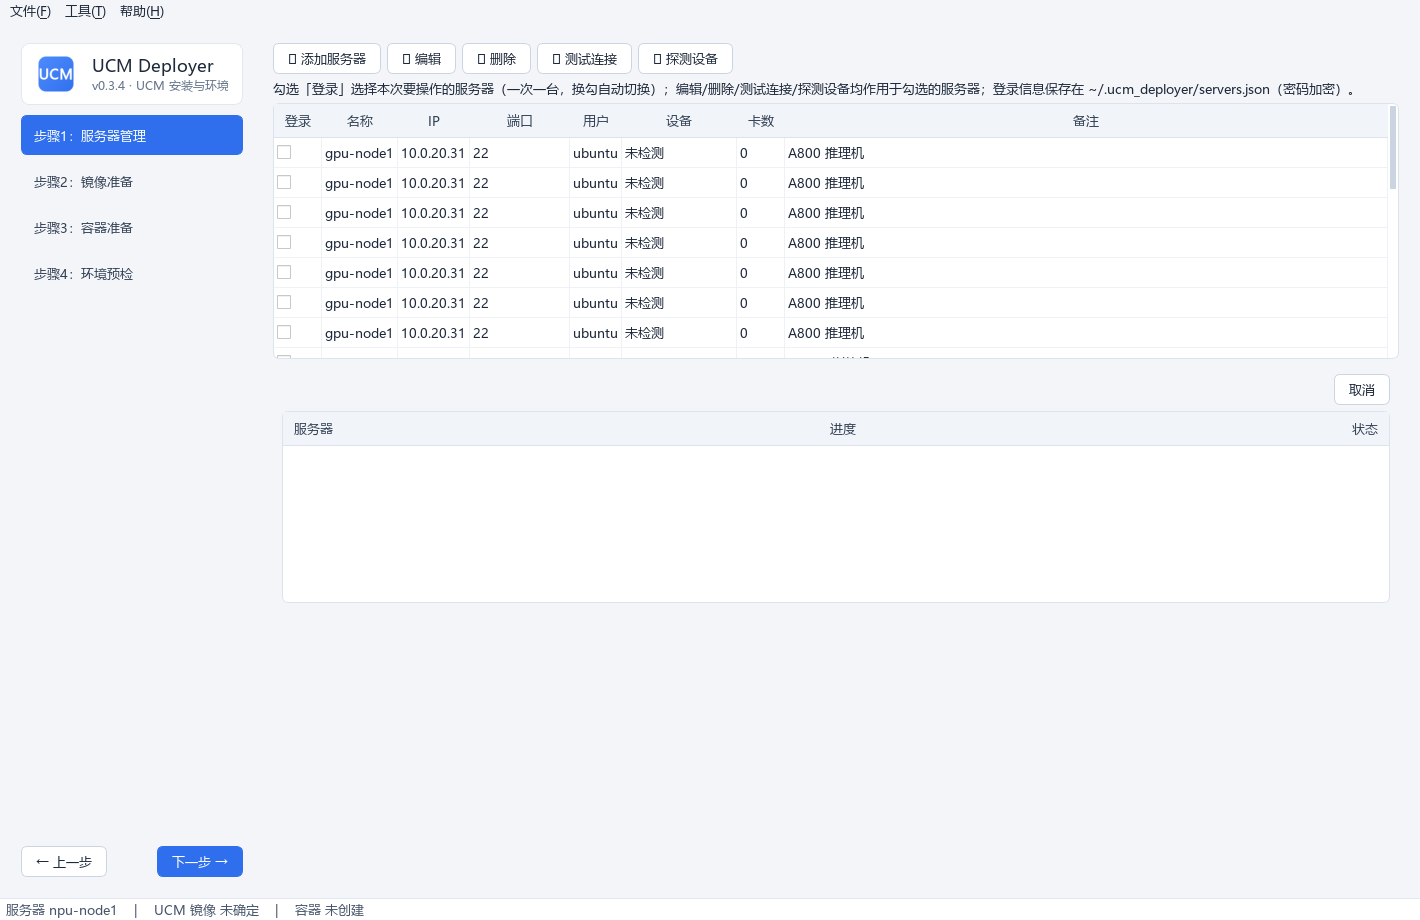
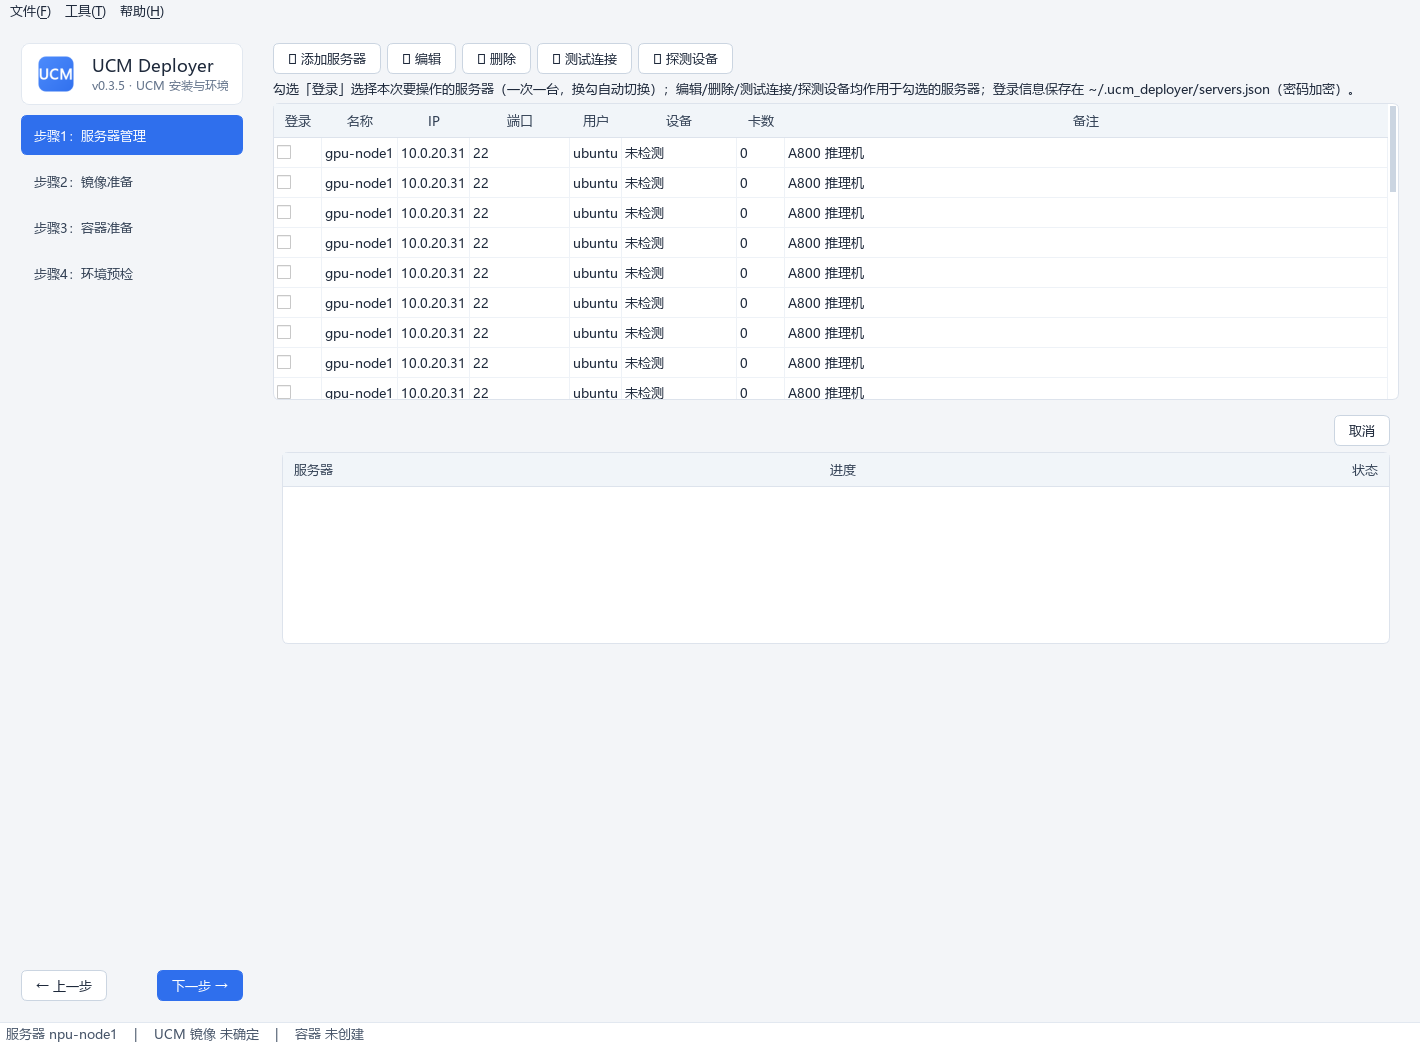
docs(release): prepare v0.3.5

diff --git a/docs/index.html b/docs/index.html
@@ -276,7 +276,7 @@ footer {
     <a class="btn btn-primary" href="#quickstart">快速开始</a>
     <a class="btn btn-outline" href="https://github.com/student-jhz/UCM-Deployer/releases/latest/download/UCM-Deployer.exe">下载 EXE</a>
   </div>
-  <p class="meta">当前版本 v0.3.4 · 支持 Ascend NPU · NVIDIA GPU · Linux 服务器 · Docker</p>
+  <p class="meta">当前版本 v0.3.5 · 支持 Ascend NPU · NVIDIA GPU · Linux 服务器 · Docker</p>
 </header>
 
 <div class="container">
@@ -292,7 +292,7 @@ footer {
   <div class="cards">
     <div class="card"><h3>凭据复用</h3><p>密码或私钥登录，密码 Fernet 加密保存在本机，下次打开自动复用。</p></div>
     <div class="card"><h3>设备感知</h3><p>自动识别 Ascend / NVIDIA 型号、卡数与 CPU 架构，并按宿主机实际资源生成容器参数。</p></div>
-    <div class="card"><h3>镜像导入</h3><p>支持本地 tar 包上传，也支持输入镜像仓库地址，按目标架构拉取后自动导入服务器。</p></div>
+    <div class="card"><h3>镜像准备</h3><p>单一来源选择器：复用服务器镜像、离线导入 tar 包，或由目标服务器直连仓库拉取；本地无需 Docker Desktop。</p></div>
     <div class="card"><h3>按需构建</h3><p>仅在基础镜像未安装 UCM 时上传 wrapt、UCM、ucm-toolkit whl 并构建新镜像。</p></div>
     <div class="card"><h3>命令透明</h3><p>所有 Docker 命令先完整展示，允许编辑，再执行，避免黑盒操作。</p></div>
     <div class="card"><h3>环境预检</h3><p>显式选择容器，检查驱动、内核、共享内存、AIO 与存储带宽；UCM 与驱动版本支持多来源补齐。</p></div>
@@ -321,7 +321,7 @@ python -m venv .venv
   <div class="callout">
     <b>目标服务器要求</b>
     Linux + SSH + Docker；Ascend 服务器需宿主机可用 <code>npu-smi</code>；NVIDIA 服务器需 <code>nvidia-smi</code> 与 nvidia-container-runtime。
-    使用镜像仓库拉取时，本地还需安装并启动 Docker Desktop。
+    使用镜像仓库拉取时，目标服务器需能访问对应仓库；本地无需 Docker Desktop。
   </div>
   <h3>按需准备安装包</h3>
   <table>
@@ -373,12 +373,16 @@ python -m venv .venv
   <p>优先复用已安装 UCM 的镜像；仅在确需制作新镜像时，才把 wrapt、UCM 与可选的 ucm-toolkit 安装进基础镜像。</p>
   <figure class="figure">
     <img src="screenshots/step2-build.png" alt="镜像准备界面" loading="lazy">
-    <figcaption>镜像准备页：仓库地址拉取、基础镜像选择、按需构建与匹配校验</figcaption>
+    <figcaption>镜像准备页：镜像来源选择、基础镜像复用、按需构建与匹配校验</figcaption>
+  </figure>
+  <figure class="figure">
+    <img src="screenshots/step2-registry-pull.png" alt="服务器直连拉取镜像界面" loading="lazy">
+    <figcaption>仓库模式：目标服务器执行 docker pull，命令可编辑，本地无需 Docker Desktop</figcaption>
   </figure>
   <h3>操作流程</h3>
   <ol>
-    <li>导入镜像：可上传本地 tar / tar.gz，也可输入 <code>quay.io/ascend/vllm-ascend:v0.30.0rc2-a5-openeuler</code> 这类仓库地址。</li>
-    <li>自动匹配架构：本地 Docker 按目标服务器 CPU 架构执行 <code>docker pull --platform</code>，导出 <code>tar.gz</code> 后自动上传并 <code>docker load</code>。</li>
+    <li>选择镜像来源：默认复用「服务器已有镜像」，无需填写仓库地址；离线场景选择 tar / tar.gz 导入；在线场景输入仓库地址。</li>
+    <li>服务器直连拉取：目标服务器按 CPU 架构生成可编辑的 <code>docker pull --platform</code> 命令，本地无需 Docker Desktop，也不生成或上传 <code>tar.gz</code>。</li>
     <li>检查 UCM：点击「✅ 检查所选镜像 UCM」。已安装则记录该镜像并直接进入步骤 3，无需构建。</li>
     <li>按需构建：仅在基础镜像未安装 UCM 时选择 wrapt、UCM 与 ucm-toolkit whl。</li>
     <li>确认新镜像名：默认生成 <code>&lt;基础镜像名&gt;:ucm-&lt;UCM版本&gt;</code>，也可手动修改。</li>
@@ -394,8 +398,8 @@ python -m venv .venv
     </tbody>
   </table>
   <div class="callout">
-    <b>本地 Docker 前置条件</b>
-    使用镜像仓库拉取时，本机需安装并启动 Docker Desktop。工具会按目标服务器 <code>aarch64</code> / <code>x86_64</code> 选择对应平台，避免把错误架构镜像导入服务器。
+    <b>服务器拉取前置条件</b>
+    使用镜像仓库模式时，目标服务器需已安装 Docker 并能访问仓库。工具会按目标服务器 <code>aarch64</code> / <code>x86_64</code> 选择对应平台，避免拉取错误架构镜像。
   </div>
 </section>
 

diff --git a/scripts/take_screenshots.py b/scripts/take_screenshots.py
@@ -37,8 +37,11 @@ def ensure_cjk_font(app):
         families = QFontDatabase.applicationFontFamilies(font_id)
         if families:
             app.setFont(QFont(families[0], 10))
+            print(f"CJK font: {families[0]}")
             return True
-    return False
+    raise RuntimeError(
+        "未找到可用中文字体（msyh.ttc / simhei.ttf / NotoSansCJK），"
+        "拒绝生成小方框截图；请先安装中文字体后重试")
 
 
 def main() -> int:
@@ -139,6 +142,7 @@ def main() -> int:
                     "2026-08-01 10:00:00"),
     ]
     ip.placeholder.setVisible(False)
+    ip.source_combo.setCurrentIndex(0)
     ip._apply_images()
     ip._update_platform_label()
     ip.registry_ref_edit.setText(
@@ -153,6 +157,12 @@ def main() -> int:
                            " 与镜像/安装包匹配")
     goto(1)
     shot(win, "step2-build")
+    ip.source_combo.setCurrentIndex(2)
+    ip._update_pull_command()
+    goto(1)
+    shot(win, "step2-registry-pull")
+    ip.source_combo.setCurrentIndex(0)
+    goto(1)
 
     # ============================================================ 步骤3
     cp = win.container_page

diff --git a/ucm_deployer/version.py b/ucm_deployer/version.py
@@ -1,4 +1,4 @@
 # -*- coding: utf-8 -*-
 """应用名称与版本号。"""
 APP_NAME = "UCM Deployer"
-__version__ = "0.3.4"
+__version__ = "0.3.5"

diff --git a/README.md b/README.md
@@ -11,7 +11,7 @@
 ```
 
 - **步骤1 服务器管理**：SSH 登录信息本地加密保存/复用；单选登录一台服务器；`npu-smi`/`nvidia-smi` 设备探测（型号/卡数/CPU 架构）
-- **步骤2 镜像准备**：选服务器已有镜像（**关键字筛选**）、上传 tar 包 `docker load`，或输入镜像仓库地址（如 `quay.io/ascend/vllm-ascend:v0.30.0rc2-a5-openeuler`）由本地 Docker **按目标服务器架构拉取**、导出 `tar.gz` 并自动上传加载；已含 UCM 的镜像可直接复用并跳过构建；确需构建时上传 wrapt/UCM/ucm-toolkit whl，构建前自动校验设备平台与架构
+- **步骤2 镜像准备**：通过单一“镜像来源”选择器复用服务器已有镜像、离线导入本地 tar 包，或输入镜像仓库地址（如 `quay.io/ascend/vllm-ascend:v0.30.0rc2-a5-openeuler`）由**目标服务器**直接 `docker pull`（本地无需 Docker Desktop）；已含 UCM 的镜像可直接复用并跳过构建；确需构建时上传 wrapt/UCM/ucm-toolkit whl，构建前自动校验设备平台与架构
 - **步骤3 容器准备**：选 UCM 镜像（**选择时自动校验**镜像内 UCM）；自动探测宿主机实际存在的 Ascend 设备节点与驱动/工具挂载，兼容 Ascend 950PR/A5（缺失 `/dev/devmm_svm` 时不再生成该参数，存在 `/dev/ummu` 或 `/dev/uburma` 时自动添加 `--privileged=true`）；GPU 使用 `--runtime nvidia --gpus all -p 8000:8000`；KV Cache / 模型只读 / 自定义挂载；docker run 命令**可编辑**后执行；已有 UCM 容器可跳过创建
 - **步骤4 环境预检**：**显式选择目标容器**（刷新 `docker ps -a` 后选择已有容器或输入容器名）；在所选容器内运行 `ucm-toolkit run precheck`（驱动/内核/共享内存/AIO 检查 + **可选挂载目录带宽测试**）；当 toolkit 无法识别 UCM 平台变体或 Ascend 驱动版本时，自动用 pip 元数据、`version.info`、`npu-smi`、`nvidia-smi` 多来源补齐并标注来源；**预检参数可配置**；结果**表格+详情区展示**（PASS/WARN/FAIL/INFO 着色、中文名与排查建议）
 - **工具菜单**：清理指定容器（`docker ps -a` 勾选删除）/ 清理指定镜像（`docker images` 勾选删除），作用于当前登录的服务器
@@ -58,7 +58,7 @@ git tag v0.2.0 && git push origin v0.2.0
 
 | 层级 | 手段 | 覆盖 |
 |---|---|---|
-| 单元测试 | `tests/`（FakeSSH 脚本化 paramiko 替身） | SSH/加密/注册表/设备解析/docker 解析/Dockerfile/命令生成/匹配校验 等 155 项 |
+| 单元测试 | `tests/`（FakeSSH 脚本化 paramiko 替身） | SSH/加密/注册表/设备解析/docker 解析/Dockerfile/命令生成/匹配校验 等 159 项 |
 | GUI | offscreen 冒烟 | 三页面实例化、导航守卫、单选、镜像筛选、下载链接、whl 反馈、像素采样断言界面无黑块 |
 | 产物 | `exe --smoke` | 打包后程序自检 |
 
@@ -87,7 +87,7 @@ UCM-Deployer/
 │   │   ├── main_window.py        # 主窗口/导航守卫/状态栏
 │   │   └── theme.py              # QSS 主题 + 图标
 │   └── utils/                    # 日志/路径
-├── tests/                        # 155 项测试（FakeSSH + GUI 冒烟）
+├── tests/                        # 159 项测试（FakeSSH + GUI 冒烟）
 ├── docs/                         # 用户手册 / 架构文档
 ├── scripts/build_exe.ps1         # 打包脚本
 └── ucm_deployer.spec             # PyInstaller 配置

diff --git a/docs/用户手册.md b/docs/用户手册.md
@@ -55,7 +55,7 @@ powershell -ExecutionPolicy Bypass -File scripts\build_exe.ps1
   - **UCM whl**：[GitHub Releases](https://github.com/ModelEngine-Group/unified-cache-management/releases)（uc_manager-*.whl）
   - **wrapt whl**：[PyPI wrapt 1.17.2 文件列表](https://pypi.org/project/wrapt/1.17.2/#files)（选择匹配服务器 Python 版本与 CPU 架构的 whl，如 manylinux 的 x86_64 / aarch64）
   - ucm-toolkit whl 包（可选）：与 UCM 包同站点 [GitHub Releases](https://github.com/ModelEngine-Group/unified-cache-management/releases) 下载，pip install 安装
-- 使用「镜像仓库地址」拉取时：本地需安装并启动 Docker Desktop；工具会按目标服务器 CPU 架构选择 `linux/arm64` 或 `linux/amd64`
+- 使用「镜像仓库（服务器拉取）」时：目标服务器需能访问镜像仓库；工具会按已探测 CPU 架构选择 `linux/arm64` 或 `linux/amd64`。本地无需 Docker Desktop，也不会生成或上传 tar.gz
 
 ## 3. 四步操作详解
 
@@ -70,8 +70,8 @@ powershell -ExecutionPolicy Bypass -File scripts\build_exe.ps1
 
 ### 步骤2：镜像准备
 
-1. **选择或导入基础镜像**：镜像列表来自服务器 `docker images`（进入本页自动加载，也可点「刷新镜像列表」）；下拉框支持**输入关键字筛选**。没有基础镜像时可上传本地 tar/tar.gz，也可在「镜像仓库地址」输入如 `quay.io/ascend/vllm-ascend:v0.30.0rc2-a5-openeuler`；
-2. **镜像仓库拉取**：点「⬇ 拉取镜像并上传」后，本地 Docker 按目标服务器架构执行 `docker pull --platform`，导出 `tar.gz`，自动上传服务器并 `docker load`；
+1. **选择镜像来源**：默认使用「服务器已有镜像」，只需从列表选择基础镜像，无需填写仓库地址；服务器无法访问仓库时可切到「本地镜像包（离线导入）」上传 tar/tar.gz；服务器可访问仓库时可切到「镜像仓库（服务器拉取）」；
+2. **镜像仓库拉取**：输入如 `quay.io/ascend/vllm-ascend:v0.30.0rc2-a5-openeuler`；工具生成可编辑的服务器命令（必须以 `docker pull` 开头），点「在服务器上拉取」后通过 SSH 执行；本地无需 Docker Desktop，也不会生成或上传 tar.gz；
 3. **优先复用**：点「✅ 检查所选镜像 UCM」；若已安装 UCM，工具记录该镜像，可直接进入步骤3，**无需填写安装包或构建**；
 4. **按需构建**（仅在基础镜像未安装 UCM 时；三个输入框下方均附**在线下载链接**）：
    - wrapt whl 包（必填）：选择后即时显示文件有效性与架构标记（x86_64 / aarch64 / 纯 Python 包）
@@ -151,4 +151,4 @@ powershell -ExecutionPolicy Bypass -File scripts\build_exe.ps1
 `~/.ucm_deployer/logs/ucm_deployer.log`（菜单「帮助 → 打开日志目录」）。
 
 **Q: 如何在无真实服务器时验证程序？**
-运行 `.venv\Scripts\python -m pytest`（155 项自动化测试覆盖 SSH/加密/设备解析/docker/命令生成/匹配校验/环境预检/GUI 冒烟，无需真实服务器）。
+运行 `.venv\Scripts\python -m pytest`（159 项自动化测试覆盖 SSH/加密/设备解析/docker/命令生成/匹配校验/环境预检/GUI 冒烟，无需真实服务器）。

diff --git a/docs/index.md b/docs/index.md
@@ -5,7 +5,7 @@
 面向 vLLM / vLLM-Ascend / SGLang 运行环境（Ascend NPU / NVIDIA GPU），把 UCM 的安装与环境预检简化为四个向导步骤：
 
 ```
-① 服务器管理 → ② 镜像构建 → ③ 容器创建 → ④ 环境预检
+① 服务器管理 → ② 镜像准备 → ③ 容器创建 → ④ 环境预检
 ```
 
 [快速开始 :material-rocket-launch:](guide/install.md){ .md-button .md-button--primary }
@@ -20,7 +20,7 @@
 | 步骤 | 功能亮点 |
 |---|---|
 | **① 服务器管理** | SSH 登录信息本地加密保存/复用；单选登录；`npu-smi`/`nvidia-smi` 设备探测（型号/卡数/CPU 架构） |
-| **② 镜像构建** | 基础镜像**关键字筛选**或上传 tar `docker load`；上传 wrapt/UCM/ucm-toolkit whl（附**在线下载链接**与即时反馈）；构建前自动**匹配校验**（设备平台 + whl 架构标记） |
+| **② 镜像准备** | 单一来源选择器：复用服务器已有镜像、离线导入 tar 包，或让目标服务器直连 `docker pull`；按需上传 wrapt/UCM/ucm-toolkit whl 并自动**匹配校验** |
 | **③ 容器创建** | 选 UCM 镜像（**选择时自动校验**）；自动探测并映射实际存在的 Ascend 设备节点、驱动与工具挂载，兼容 Ascend950PR/A5；GPU 使用 `--runtime nvidia --gpus all`；docker run 命令**可编辑**后执行 |
 | **④ 环境预检** | 容器内运行 `ucm-toolkit run precheck`（环境检查 + **可选带宽测试**）；UCM 与驱动版本支持多来源补齐；**预检参数可配置**；结果表格+详情区展示（中文名与排查建议） |
 | **工具菜单** | 清理指定容器/镜像（关键字筛选、悬浮看全名） |
@@ -34,7 +34,7 @@
 
 ## 环境要求
 
-- 本地：Windows + 双击 `UCM-Deployer.exe` 即可（无需 Python）
+- 本地：Windows + 双击 `UCM-Deployer.exe` 即可（无需 Python，也无需 Docker Desktop）
 - 目标服务器：Linux + SSH + Docker；Ascend 需 `npu-smi`，NVIDIA 需 `nvidia-smi`
 
 ## 相关链接

diff --git a/scripts/release_notes_template.md b/scripts/release_notes_template.md
@@ -1,4 +1,4 @@
-# UCM Deployer v{VERSION}
+# UCM Deployer v0.3.5
 
 **UCM (Unified Cache Management) 安装与环境预检工具 —— Windows 桌面版**
 
@@ -10,11 +10,13 @@
 
 ## 本版本更新
 
-- **UCM 平台变体识别**：预检输出 `uc_manager -` 时，自动从 pip freeze/表格输出识别 `uc-manager-cann910-a5` 等包名，显示实际版本。
-- **Ascend 驱动版本补齐**：`HDK=?` 时自动读取 `/usr/local/Ascend/driver/version.info`，例如 `Version=25.6.rc1.b999` 会显示为 `HDK=25.6.rc1.b999`，并按 `> 25.2.0` 判定。
-- **通用多来源探测**：驱动版本依次支持 `version.info`、`npu-smi info`、`nvidia-smi`；探测来源写入详情区 `[deployer] fact source`，并保留 toolkit 原始输出。
-- **LD_PRELOAD 噪声隔离**：事实探测忽略缺失 `libjemalloc.so.2` 产生的 loader 警告，只解析有效 stdout。
-- **测试**：新增 A5 实测样例覆盖，包含完整预检增强链路。
+- **服务器直连拉取镜像**：输入镜像仓库地址后，在目标服务器执行 `docker pull --platform`；本地无需 Docker Desktop，也不再导出或上传 tar.gz。
+- **命令透明**：服务器拉取前展示可编辑命令，且仅允许以 `docker pull` 开头的命令执行。
+- **重设计步骤2镜像来源**：默认「服务器已有镜像」，无需填写仓库地址；离线场景保留 tar 导入；仓库场景独立显示，避免多个输入框和按钮同时出现。
+- **自动回到复用流程**：tar 导入或服务器拉取成功后自动切回「服务器已有镜像」并选中新镜像。
+- **修复来源切换显示**：选择本地镜像包或镜像仓库时，界面会切换到对应的输入区。
+- **CUDA UCM 变体回归**：预检补齐链路覆盖 `uc-manager-cuda-cu129==0.9.0rc3` 实测样例。
+- **测试**：新增镜像引用校验、架构转换、服务器拉取命令、GUI 来源切换与 CUDA/A5 预检增强用例。
 
 ## 主要功能
 

diff --git a/docs/guide/step2.md b/docs/guide/step2.md
@@ -4,15 +4,27 @@
 
 ![步骤2 界面](../screenshots/step2-build.png)
 
+![服务器直连拉取镜像](../screenshots/step2-registry-pull.png)
+
 ## 操作流程
 
-### 1. 选择基础镜像
+### 1. 选择镜像来源
+
+「镜像来源」一次只显示一种操作方式，避免同时出现多个输入框和按钮：
+
+| 来源 | 适用场景 | 操作 |
+|---|---|---|
+| 服务器已有镜像（默认） | 设备上已有可用基础镜像 | 直接从列表选择，**无需填写仓库地址** |
+| 本地镜像包（离线导入） | 服务器无法访问镜像仓库 | 选择本地 tar/tar.gz，点「导入到服务器」 |
+| 镜像仓库（服务器拉取） | 服务器可访问仓库 | 输入镜像引用，点「在服务器上拉取」 |
 
 镜像列表来自服务器 `docker images`（进入本页自动加载，也可点「🔄 刷新镜像列表」）：
 
 - 下拉框**输入关键字即可筛选**（包含匹配、不区分大小写），只能选中列表中的镜像；
 - 显示镜像大小，悬浮显示创建时间，疑似 UCM 镜像排在最前；
-- 服务器上没有可用基础镜像时，点「⬆ 上传镜像 tar/tar.gz」导入（自动上传 + `docker load`）。
+- 服务器直连拉取时，工具在目标服务器执行 `docker pull --platform linux/arm64` 或 `linux/amd64`，不占用本地磁盘、不生成 tar.gz、本地无需 Docker Desktop；
+- 拉取命令会先显示在「服务器命令（可编辑）」中，可检查或修改后执行；命令必须以 `docker pull` 开头；
+- tar 导入或服务器拉取成功后，自动切回「服务器已有镜像」并选中刚得到的镜像。
 
 ### 2. 选择安装包
 

diff --git a/docs/guide/step4.md b/docs/guide/step4.md
@@ -2,7 +2,7 @@
 
 在**已创建的容器内**运行 `ucm-toolkit run precheck`，提前发现可能影响启动或缓存读写的问题。
 
-如果 toolkit 输出 `uc_manager -` 或 `HDK=?`，Deployer 不会直接放弃识别，而会在容器内独立探测事实来源：pip 包元数据（兼容 `uc-manager-cann910-a5` 等平台变体）、`/usr/local/Ascend/driver/version.info`、`npu-smi info`、`nvidia-smi`。补齐后的结果会在详情中标注 `[deployer] fact source`，不隐藏 toolkit 原始输出。
+如果 toolkit 输出 `uc_manager -` 或 `HDK=?`，Deployer 不会直接放弃识别，而会在容器内独立探测事实来源：pip 包元数据（兼容 `uc-manager-cann910-a5`、`uc-manager-cuda-cu129` 等平台变体）、`/usr/local/Ascend/driver/version.info`、`npu-smi info`、`nvidia-smi`。补齐后的结果会在详情中标注 `[deployer] fact source`，不隐藏 toolkit 原始输出。
 
 ![步骤4 界面](../screenshots/step4-precheck.png)
 

diff --git a/docs/architecture.md b/docs/architecture.md
@@ -124,7 +124,7 @@ TerminateProcess 从未执行（这正是最初"保险失效"的原因）。
 - **GUI 冒烟**：`QT_QPA_PLATFORM=offscreen` 下实例化页面验证交互逻辑
   （自由跳转、操作拦截、镜像筛选、命名建议联动、一屏排版断言）；
   界面渲染质量用像素采样断言（不依赖人工看图）；
-- 共 155 项测试。
+- 共 159 项测试。
 
 ## 7. 发布流程
 
